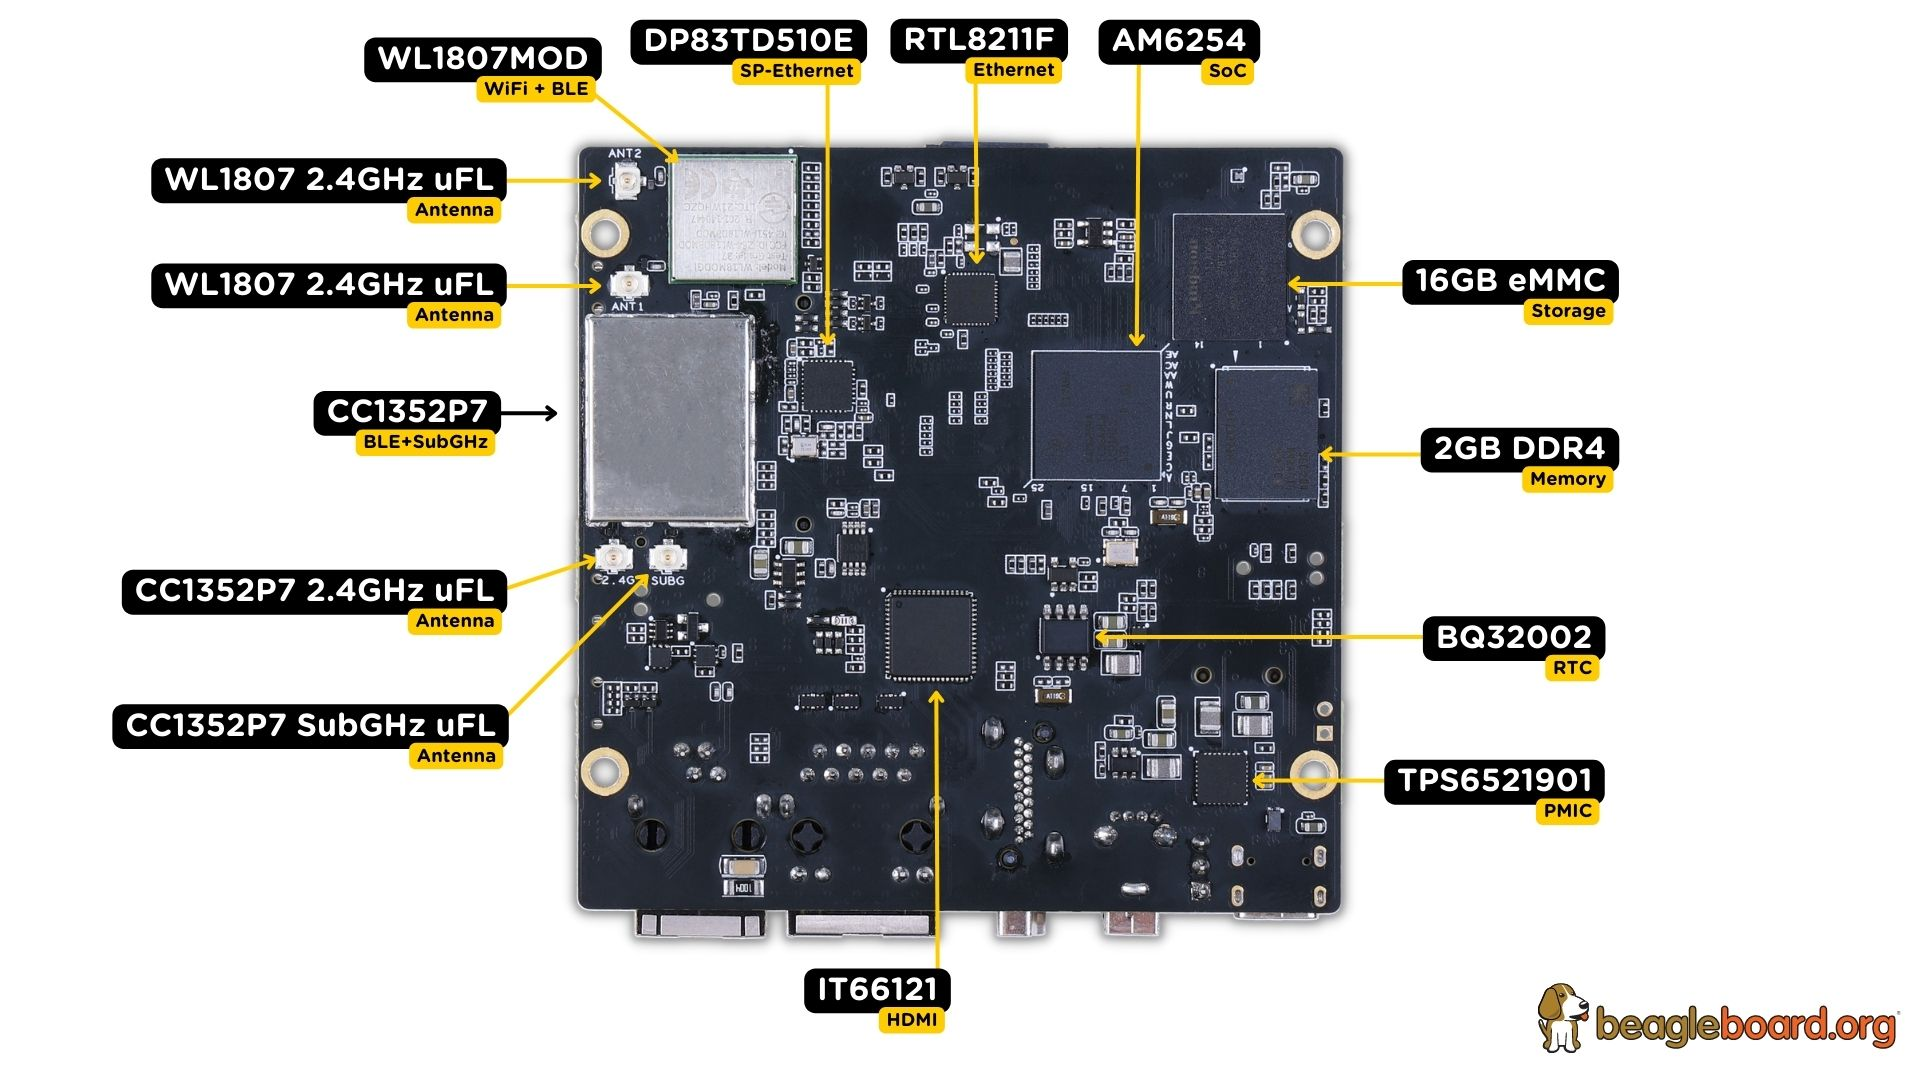
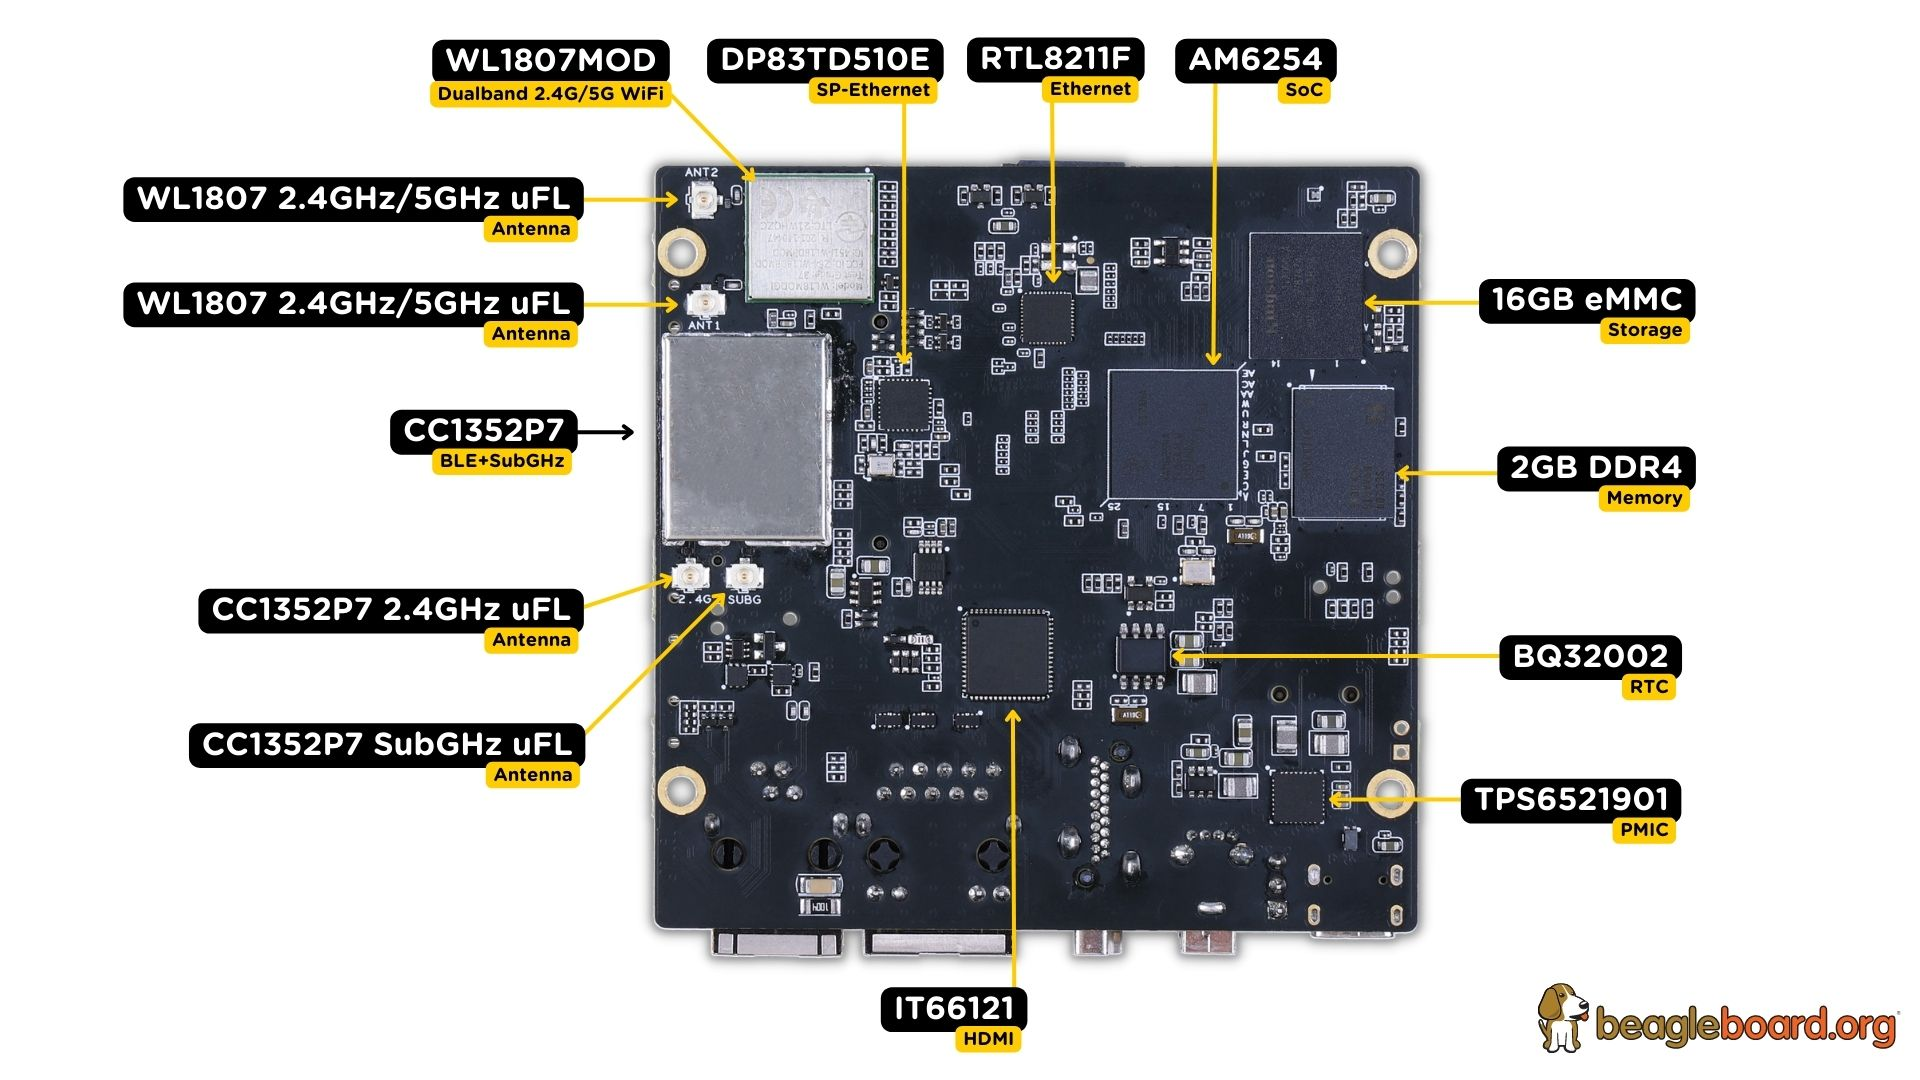
Update chapter4 graphics

diff --git a/boards/beagleplay/04-detailed-overview.rst b/boards/beagleplay/04-detailed-overview.rst
@@ -173,7 +173,7 @@ Back components location
     +============================+===========================================================================+
     | CC1352P7                   | 2.4GHz BLE + SubG IEEE802.15.4 with 1 x 2.4GHz + 1 x SubG uFL antenna.    |
     +----------------------------+---------------------------------------------------------------------------+
-    | WL1807MOD                  | Dual band WiFi + BLE module with 2 x 2.4GHz uFL antennas.                 |
+    | WL1807MOD                  | Dual band (2.4GHz & 5GHz) WiFi module with 2 x uFL antennas.              |
     +----------------------------+---------------------------------------------------------------------------+
     | DP83TD510E                 | Single-pair ethernet PHY.                                                 |
     +----------------------------+---------------------------------------------------------------------------+
